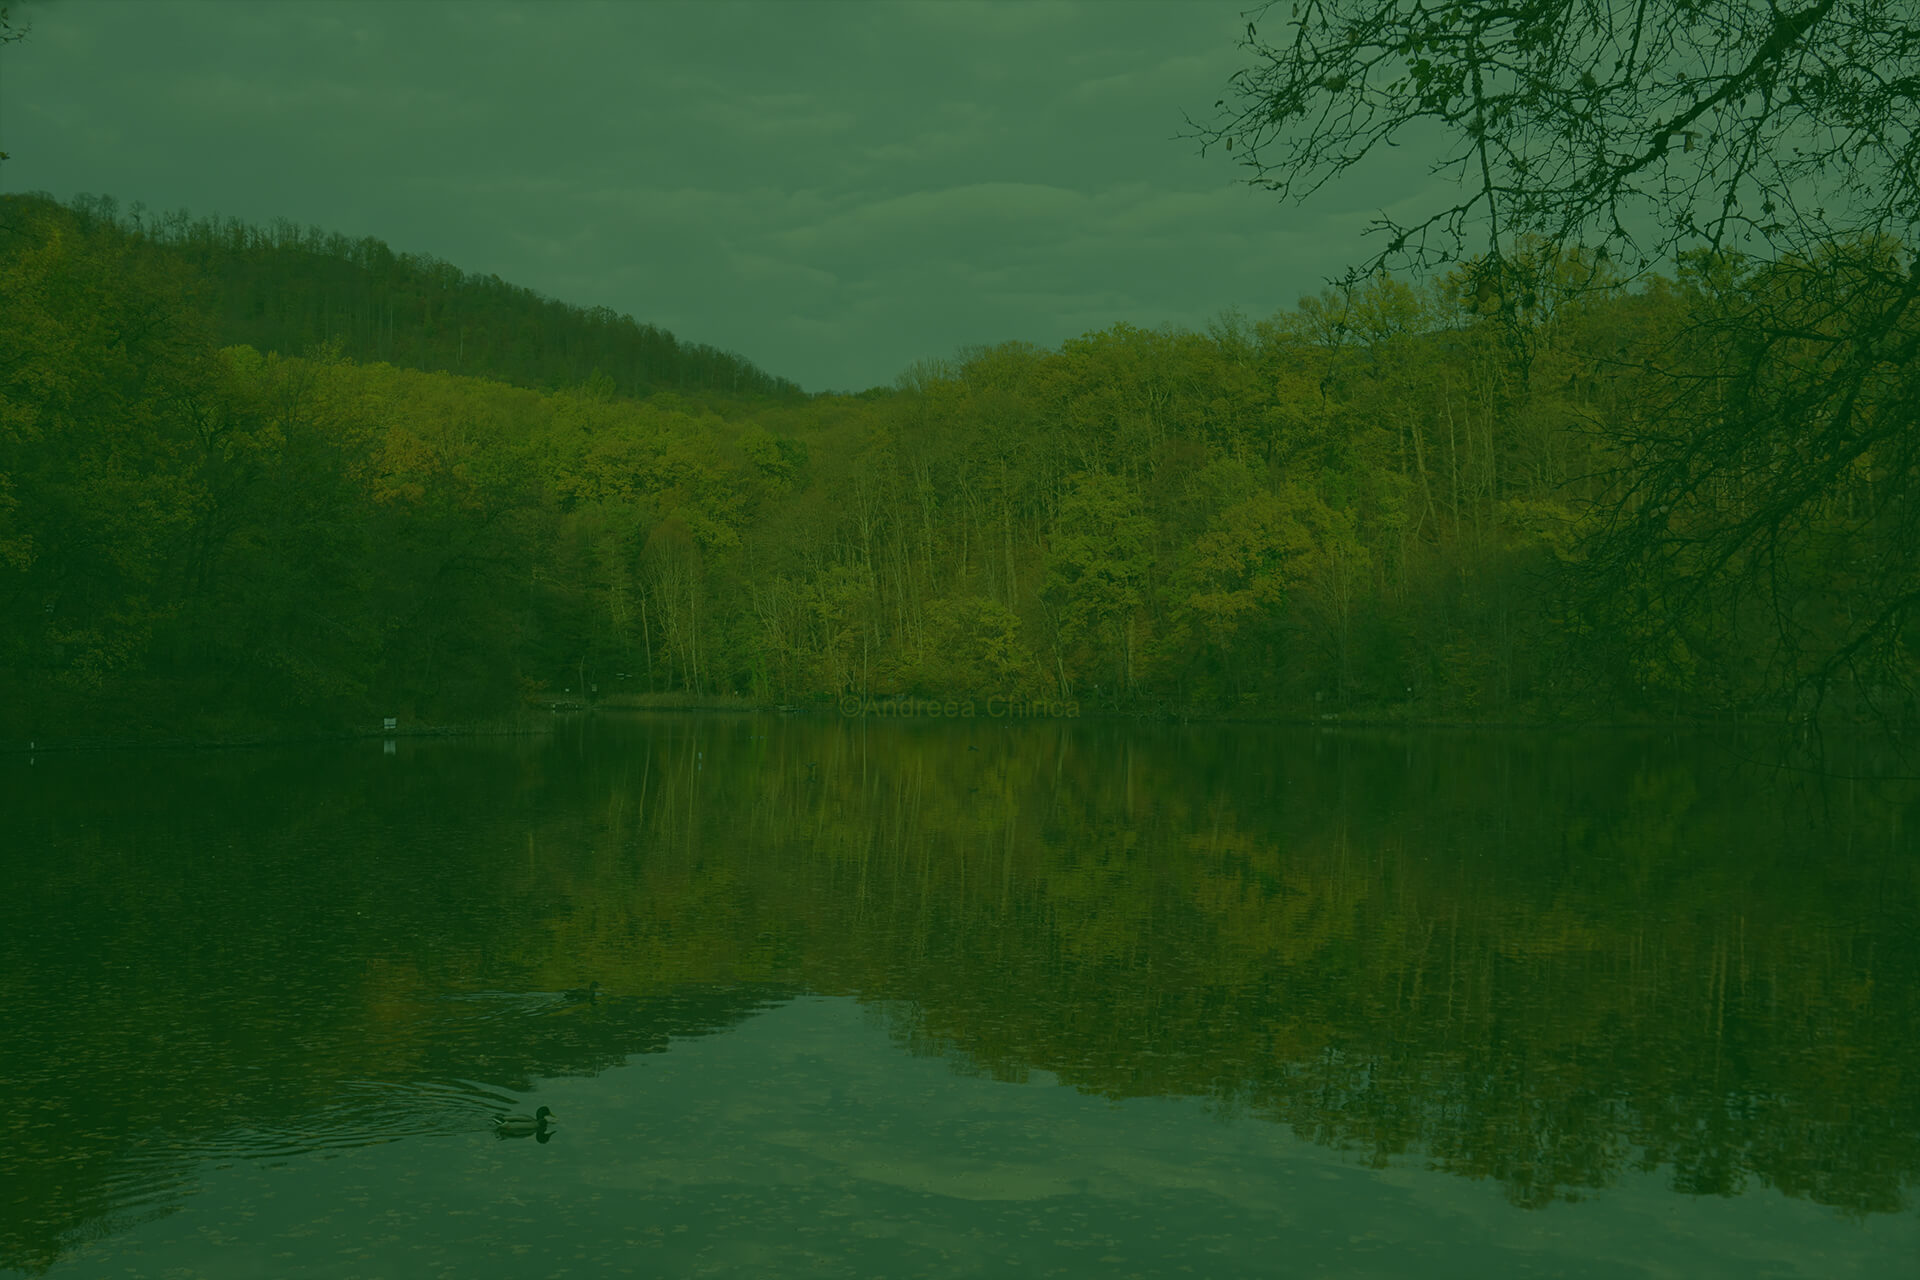
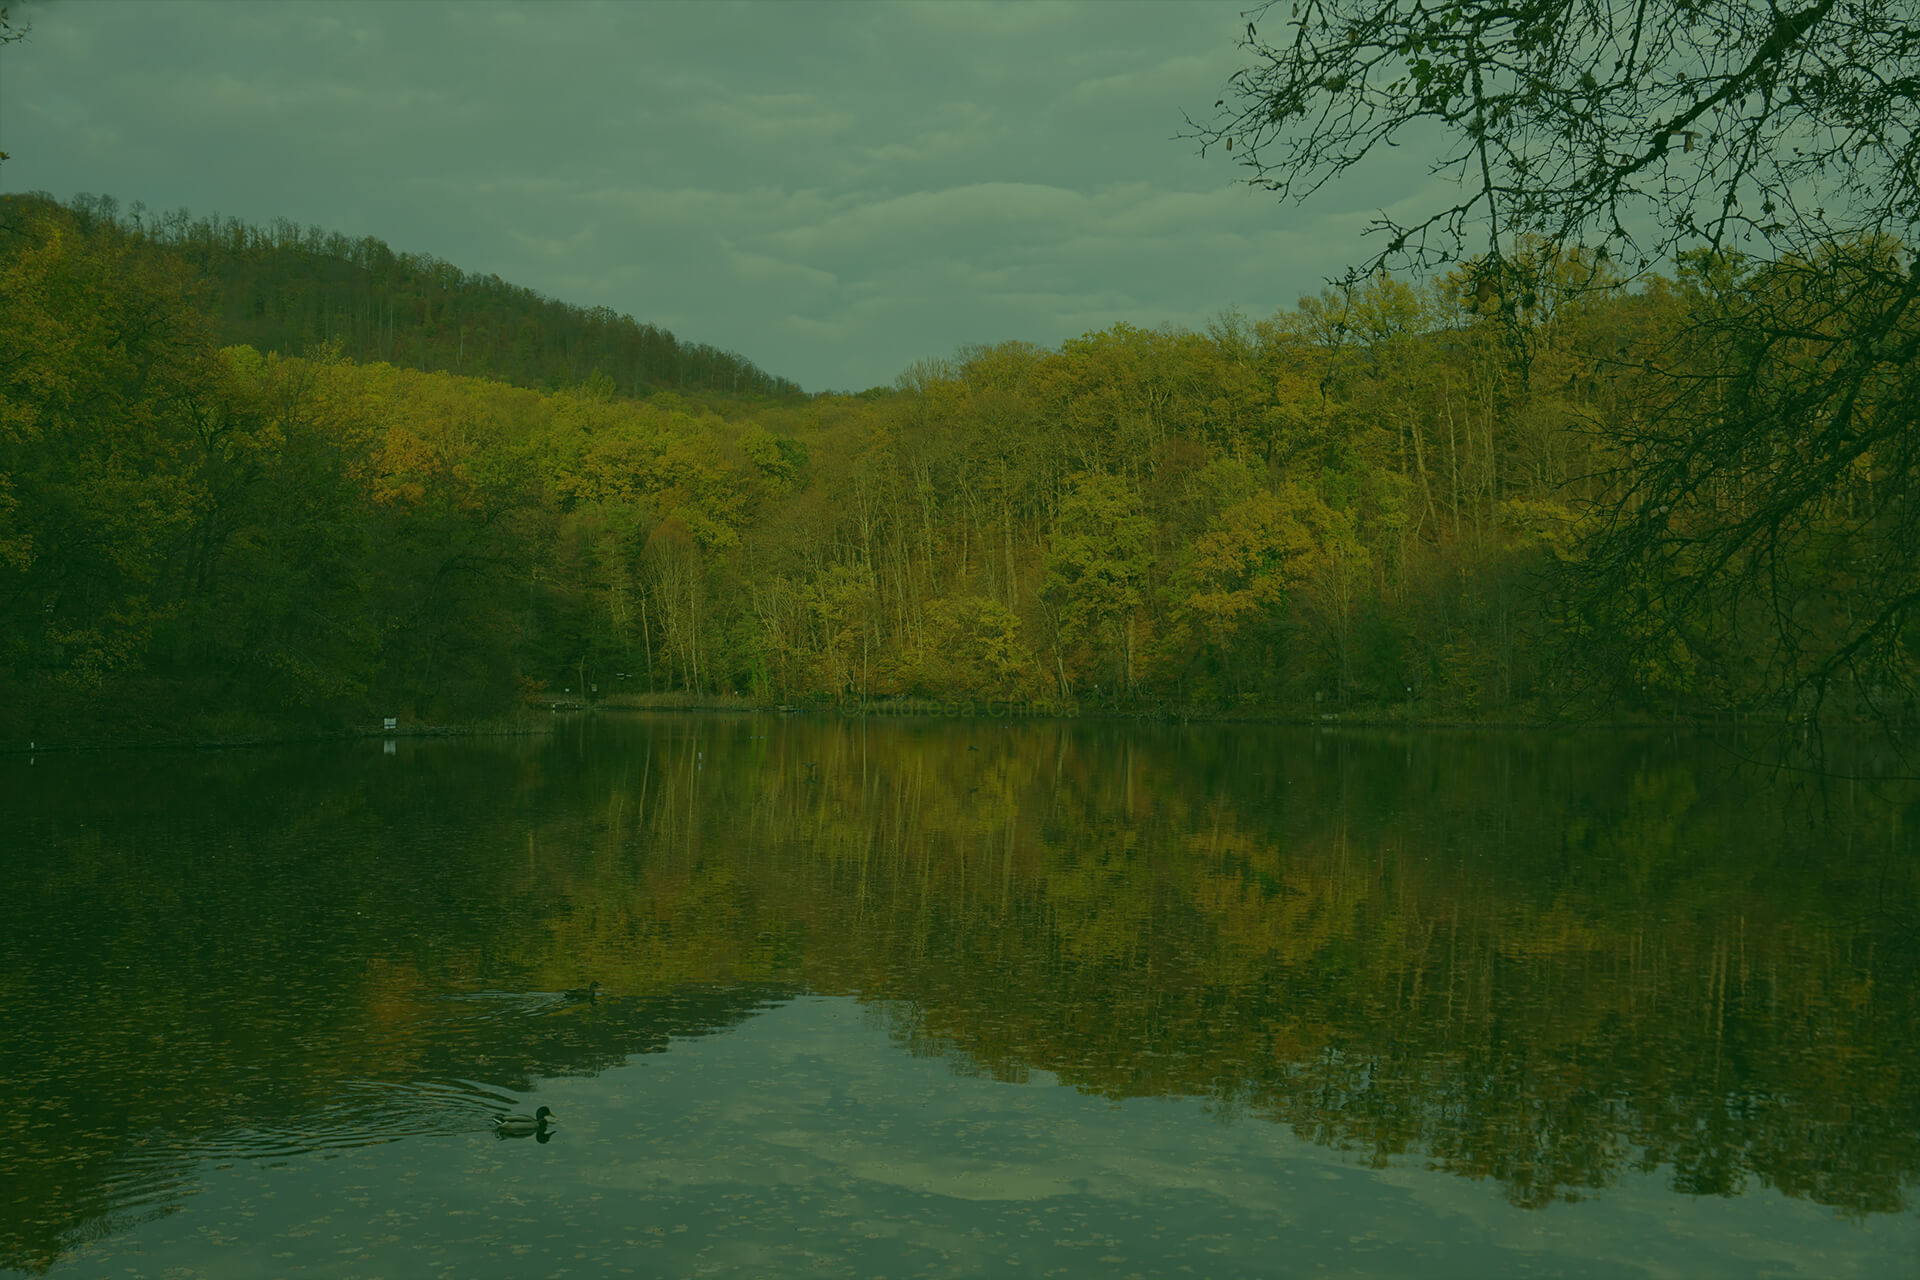
Decreased opacity of background image, added portrait photo with styling

diff --git a/index.html b/index.html
@@ -13,7 +13,9 @@
 <body>
 
 <main>
+  </section>
   <section class="container">
+     <img class="photo" style="float: right; margin: 0px 0px 15px 15px;" src="portrait.jpg" width="250" />
     <h1>
     Hi, I'm Andreea Chirica
   </h1>

diff --git a/style.css b/style.css
@@ -70,5 +70,10 @@ main {
 	padding: 6em;
 	box-sizing: border-box;
 	margin: 0 auto;
-	background: #07050473;
+}
+
+photo {
+	float: right;
+    margin: 0px 0px 15px 15px;
+    border-radius: 150px;
 }
